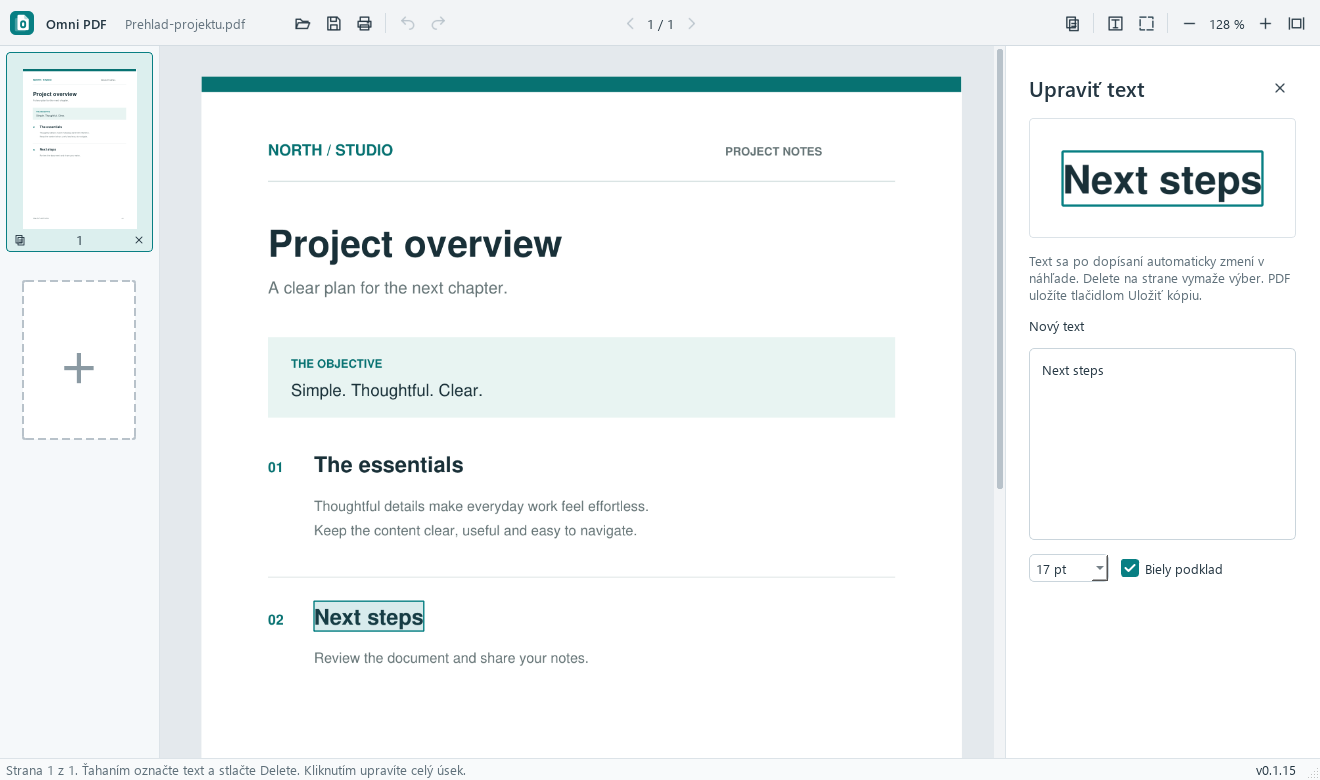
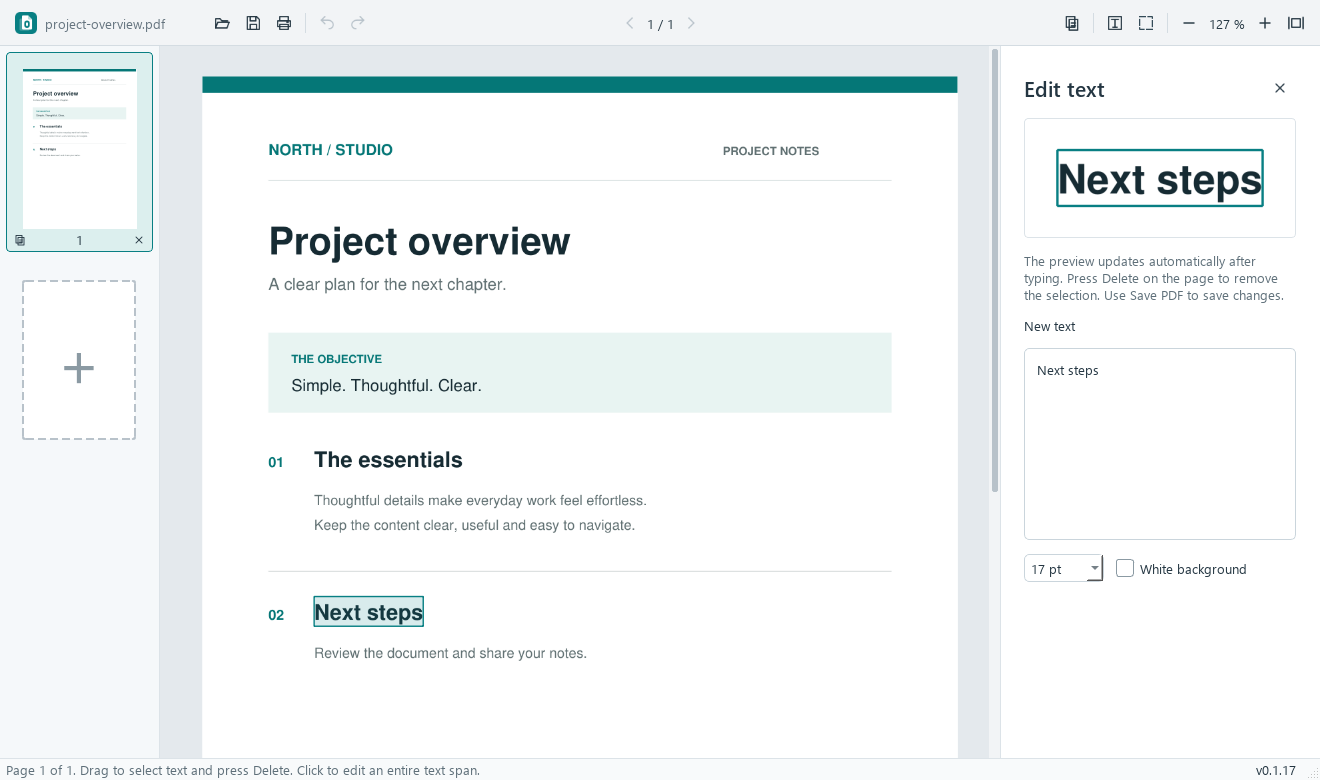
Translate project documentation into English

diff --git a/omnipdf/app_info.py b/omnipdf/app_info.py
@@ -1,6 +1,6 @@
 """Application identity and the single source of the release version."""
 
 APP_NAME = 'Omni PDF'
-VERSION = '0.1.16'
+VERSION = '0.1.17'
 RELEASE_REPOSITORY = 'hudakjakub/OmniPDF'
 PROJECT_URL = f'https://github.com/{RELEASE_REPOSITORY}'

diff --git a/README.md b/README.md
@@ -1,53 +1,32 @@
 <div align="center">
-  <img src="omnipdf/assets/omni.svg" width="72" alt="Logo Omni PDF">
+  <img src="omnipdf/assets/omni.svg" width="72" alt="Omni PDF logo">
   <h1>Omni PDF</h1>
-  <p><strong>Upravuj PDF jednoducho, priamo vo Windows.</strong></p>
-  <p>Bez účtu · Lokálne spracovanie · Slovenčina a angličtina</p>
+  <p><strong>Edit PDFs simply, right on Windows.</strong></p>
+  <p>No account · Local processing</p>
   <p>
-    <a href="https://github.com/hudakjakub/OmniPDF/actions/workflows/windows.yml"><img src="https://github.com/hudakjakub/OmniPDF/actions/workflows/windows.yml/badge.svg?branch=main&amp;event=push" alt="Stav CI a zostavenia na main"></a>
-    <a href="https://github.com/hudakjakub/OmniPDF/releases/latest"><img src="https://img.shields.io/github/v/release/hudakjakub/OmniPDF?label=vydanie&amp;color=087f83" alt="Najnovšie vydanie"></a>
-    <a href="LICENSE"><img src="https://img.shields.io/badge/licencia-AGPL--3.0-087f83" alt="Licencia AGPL 3.0"></a>
+    <a href="https://github.com/hudakjakub/OmniPDF/actions/workflows/windows.yml"><img src="https://github.com/hudakjakub/OmniPDF/actions/workflows/windows.yml/badge.svg?branch=main&amp;event=push" alt="Windows build status"></a>
+    <a href="https://github.com/hudakjakub/OmniPDF/releases/latest"><img src="https://img.shields.io/github/v/release/hudakjakub/OmniPDF?label=release&amp;color=087f83" alt="Latest release"></a>
+    <a href="LICENSE"><img src="https://img.shields.io/badge/license-AGPL--3.0-087f83" alt="AGPL 3.0 license"></a>
   </p>
-  <p><strong><a href="https://github.com/hudakjakub/OmniPDF/releases/latest">Stiahnuť pre Windows ↓</a></strong> &nbsp; · &nbsp; <a href="docs/pouzivanie.md">Používanie</a> &nbsp; · &nbsp; <a href="docs/vyvoj.md">Vývoj</a></p>
+  <p><strong><a href="https://github.com/hudakjakub/OmniPDF/releases/latest">Download for Windows ↓</a></strong> &nbsp; · &nbsp; <a href="docs/usage.md">User guide</a> &nbsp; · &nbsp; <a href="docs/development.md">Development</a></p>
   <br>
-  <img src="docs/images/omni-pdf.png" alt="Omni PDF: ukážka úpravy textu v PDF dokumente" width="100%">
+  <img src="docs/images/omni-pdf.png" alt="Omni PDF editing a document" width="100%">
 </div>
 
-## Jednoduchšie každodenné úpravy
+## Everyday edits, made simple
 
-- **Upravuj obsah** — prepíš text, pridaj vlastný alebo presuň či odstráň označenú oblasť.
-- **Spravuj strany** — spoj dokumenty, vlož, duplikuj alebo odstráň strany.
-- **Pracuj aj so skenmi** — otvor PDF, JPG či PNG a použi rozpoznávanie textu vo Windows.
+- **Edit content** — change text, add your own, or move and delete selected areas.
+- **Manage pages** — combine documents and insert, reorder, duplicate or remove pages.
+- **Work with scans** — open PDF, JPG or PNG files and use Windows text recognition.
 
-Dokumenty zostávajú v počítači. Po úpravách ich môžeš vytlačiť alebo uložiť ako novú PDF kópiu.
+Your documents stay on your computer. Print the result or save it as a PDF.
 
-## Stiahnutie
+## Download
 
-Na stránke [najnovšieho vydania](https://github.com/hudakjakub/OmniPDF/releases/latest) nájdeš inštalátor aj prenosnú verziu pre Windows x64. Aktualizáciu aplikácia ponúkne na potvrdenie.
+Find the installer and portable app for Windows x64 on the [latest release page](https://github.com/hudakjakub/OmniPDF/releases/latest). Updates require your confirmation.
 
-> Aktuálne vydania nie sú digitálne podpísané. Windows preto môže aplikáciu alebo inštalátor zablokovať.
-
-## CI / CD
-
-Pull requesty, zmeny na `main` a release tagy prechádzajú kontrolami na Windows. Balíky sa po zostavení overia a release tag z nich vytvorí GitHub Release.
-
-```mermaid
-flowchart LR
-    A["PR · main · tag · ručne"] --> B["CI<br/>Testy a verzia"]
-    B -->|"Pull request"| C["Výsledok kontrol"]
-    B -->|"push · tag · ručne"| D["Build<br/>EXE a inštalátor"]
-    D --> E["Overenie<br/>Inštalácia a aktualizácia"]
-    E --> F["Actions<br/>Artefakty"]
-    F -->|"tag v*"| G["CD<br/>GitHub Release"]
-
-    classDef standard fill:#eef8f7,stroke:#9acac7,color:#163b3d,stroke-width:1px;
-    classDef output fill:#087f83,stroke:#087f83,color:#ffffff,stroke-width:1px;
-    class A,B,C,D,E,F standard;
-    class G output;
-```
-
-[Stav workflow](https://github.com/hudakjakub/OmniPDF/actions/workflows/windows.yml) · [Ako funguje vydávanie](docs/vyvoj.md#vývoj-a-vydávanie)
+> Releases are currently unsigned, so Windows may block the application or installer.
 
 ---
 
-[Používanie a obmedzenia](docs/pouzivanie.md) · [Vývoj](docs/vyvoj.md) · [Zmeny](docs/CHANGELOG.md) · [Licencia AGPL v3](LICENSE)
+[User guide](docs/usage.md) · [Development](docs/development.md) · [Changelog](docs/CHANGELOG.md) · [AGPL v3 license](LICENSE)

diff --git a/docs/usage.md b/docs/usage.md
@@ -1,0 +1,34 @@
+# Using Omni PDF
+
+## Edit a document
+
+1. Open a PDF, JPG or PNG using the open button or by dragging a file into the window. The app asks what to do with unsaved changes before opening another document.
+2. Click text to edit it in the side panel. The preview updates automatically shortly after typing stops. If the text does not fit, the last valid version remains visible and the panel explains the problem.
+3. Drag across text and press **Delete** to remove a selection. Clicking selects a text span; **Escape** cancels the selection or active tool. The selection stays on its original page when you scroll.
+4. Click the **T** tool to add a text box. Click once for a default-sized box or drag to choose its size, then start typing. Use the dashed rectangle tool to select an area to move, resize or delete.
+5. Text on scanned pages and photographs is recognized in the background. Check recognized text before saving.
+
+The left sidebar shows page thumbnails. Click a thumbnail to navigate, or use **Ctrl+click** and **Shift+click** to select multiple pages. Drag selected thumbnails to reorder them. The page management menu offers actions such as rotating, duplicating and deleting pages. Use the **+** card to append another PDF; it remains available even after deleting the last page.
+
+Use **Ctrl+F** to find text across the document. Press **Enter** or **F3** for the next match, **Shift+F3** for the previous match, and **Escape** to close search. The app can also save a searchable PDF with an invisible text layer for scanned pages.
+
+Save with **Ctrl+S** or **Ctrl+Shift+S**. You may save a copy or confirm replacing the original PDF. If the original has changed on disk, save a copy or reopen it.
+
+Print with the printer button or **Ctrl+P**. The system print dialog offers a preview and printer settings when the system print component is available; otherwise, the app uses a separate preview and standard print dialog.
+
+Other shortcuts: **Ctrl+O** opens a file, **Ctrl+Z** undoes, **Ctrl+Y** or **Ctrl+Shift+Z** redoes, **Ctrl++** or **Ctrl+=** zooms in, **Ctrl+-** zooms out, and **Ctrl+0** fits the page width.
+
+## Updates
+
+The application menu contains the current version, a manual update check and a switch for automatic checks. In packaged builds, checks occur on startup and every six hours. When an update is available, the app asks for consent before downloading it, shows progress, and verifies the installer size and SHA-256. Downloads can be cancelled.
+
+You can defer installation. Before restarting, the app offers to save unfinished work; cancelling the save also cancels installation. The installer waits for the app to exit and starts the new version. The first update of a portable EXE installs to `%LOCALAPPDATA%\Programs\OmniPDF`; updates to an installed app keep its existing location. Source runs offer a link to the release page instead of self-installation.
+
+## Limitations
+
+- Replacement text may use a different font from the original. For text over an image, select and remove the area, then add a text box.
+- A covered area uses a single background color and may stand out on a photograph, gradient or pattern.
+- OCR depends on the recognition languages installed in Windows. Straighten and crop scans or photographs before importing, and check recognized numbers.
+- The app does not recalculate totals or taxes.
+- Encrypted PDFs and files that prohibit editing are rejected. Digitally signed PDFs can be opened or inserted after confirmation; signature validity is not verified and changes invalidate the original signature.
+- Pages with unapplied redaction annotations cannot be edited.

diff --git a/docs/development.md b/docs/development.md
@@ -1,0 +1,56 @@
+# Development and releases
+
+## Project structure
+
+```text
+omnipdf/           Application, icons, PDF, OCR, printing and updates
+tests/             Automated tests
+windows_print/     Windows system print component
+packaging/         Installer configuration
+requirements/      Application and build dependencies
+scripts/           Launch, build and release verification scripts
+docs/              Documentation
+.github/workflows/ GitHub Actions
+```
+
+## Run from source
+
+Install Python 3.14 and run the following from the project root:
+
+```cmd
+py -3.14 -m venv .venv
+.venv\Scripts\python.exe -m pip install -r requirements\runtime.txt
+.venv\Scripts\python.exe -m omnipdf
+```
+
+You can also launch the app with `scripts\run.cmd`.
+
+## Verification
+
+```cmd
+.venv\Scripts\python.exe -m unittest discover -v
+```
+
+Set `RUN_WINDOWS_OCR=1` to run the integration test against the installed Windows OCR languages. UI tests run without displaying windows.
+
+## Builds and releases
+
+`VERSION` in `omnipdf/app_info.py` is the source of truth for the version number, in `MAJOR.MINOR.PATCH` format. Working branches and pull requests target `main`; temporary files, virtual environments, builds and personal documents are excluded from the repository.
+
+GitHub Actions runs Windows tests on pushes to `main` and pull requests. Pushes to `main` and manual runs also produce Windows build artifacts. A `vMAJOR.MINOR.PATCH` tag runs tests, builds and verifies the portable app and installer, and creates a GitHub Release. The tag must match `VERSION` exactly; existing releases are not overwritten.
+
+To publish a release, update `omnipdf/app_info.py` and `docs/CHANGELOG.md`, test the change, merge it into `main`, then create a tag:
+
+```cmd
+git tag v0.2.0
+git push origin v0.2.0
+```
+
+A local Windows build requires Python 3.14 x64, the .NET 10 SDK and Inno Setup 6. Set `ISCC` if the installer compiler is not on its default path:
+
+```cmd
+.venv\Scripts\python.exe -m pip install -r requirements\runtime.txt -r requirements\build.txt
+.venv\Scripts\python.exe scripts\build_windows.py
+```
+
+The output is written to `release/`. To check packaged resources, Qt, the PDF engine and OCR, run `OmniPDF.exe --smoke-test --output smoke.json`.

diff --git a/docs/CHANGELOG.md b/docs/CHANGELOG.md
@@ -1,5 +1,9 @@
 # Changelog
 
+## 0.1.17
+
+- Present the project documentation, workflow labels and application screenshot in English.
+
 ## 0.1.16
 
 - Integrate the latest PDF and OCR features with printing, update controls, and the reorganized project.
@@ -61,7 +65,7 @@
 
 ## 0.1.5
 
-- Display the application in Slovak or English based on the system UI language.
+- Display the application in the system UI language where supported.
 
 ## 0.1.4
 
